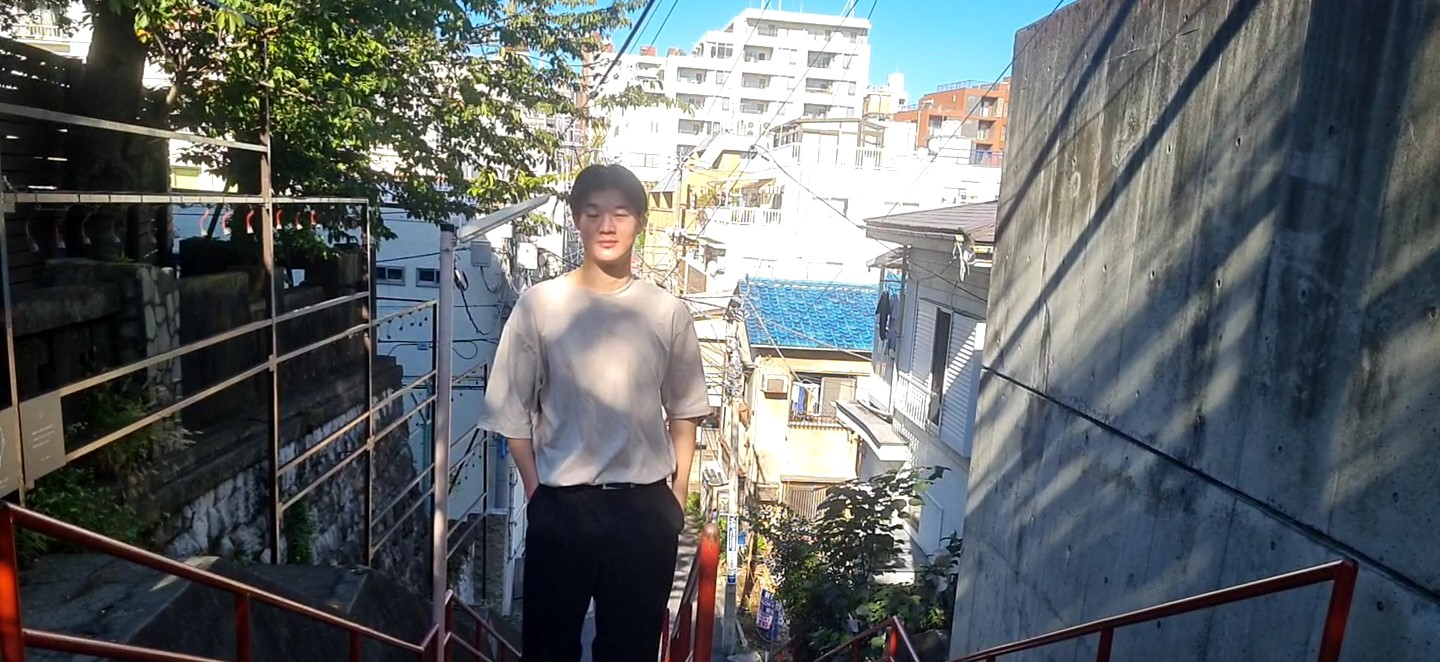
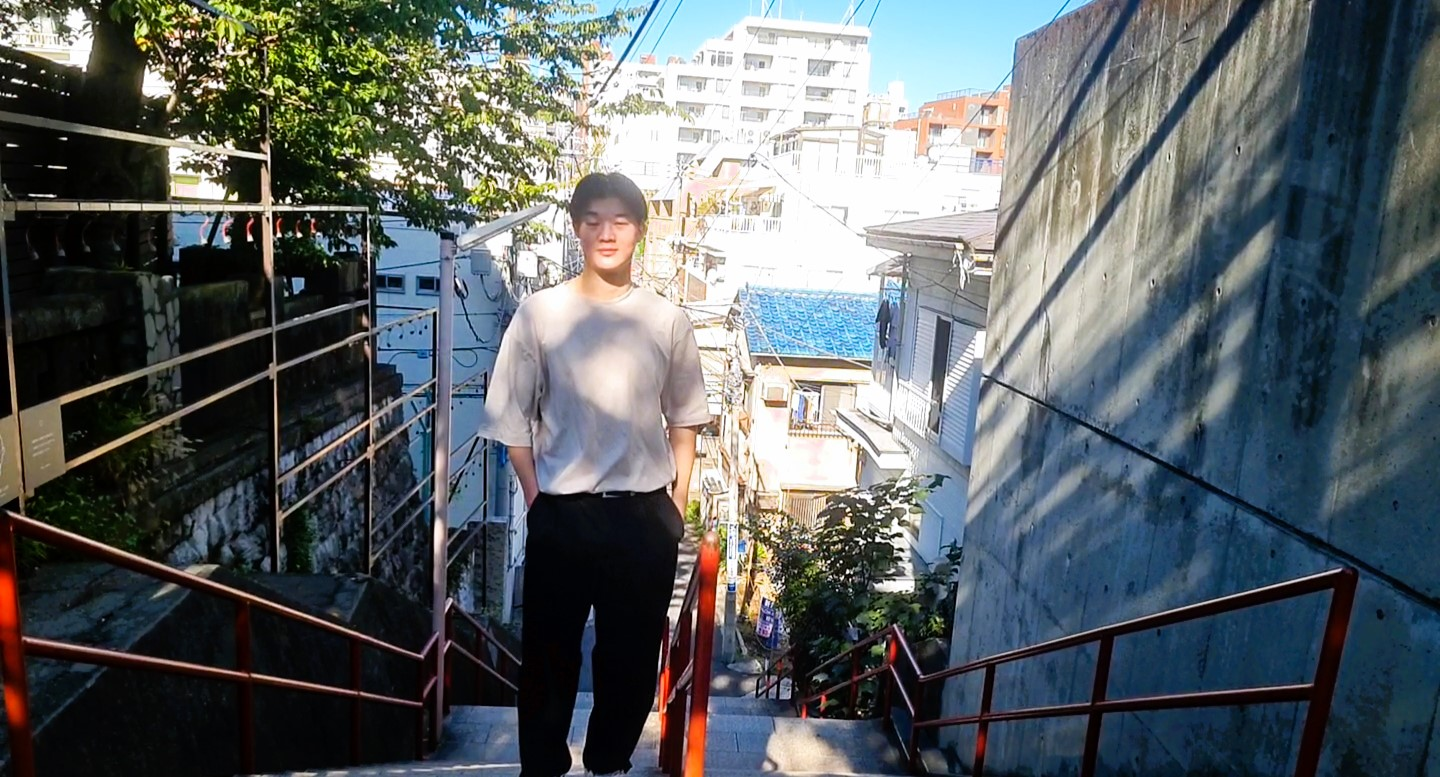
cv

diff --git a/_pages/resume.md b/_pages/resume.md
@@ -7,14 +7,15 @@ nav: true
 nav_order: 5
 ---
 
+<img src="https://nphamdinh.github.io/assets/img/suga_shrine_stairs.jpg" alt="" style="width:1000px;height:400px;">
 
 <section>
 
 	<p class="mt-4">
 		Read a summary below or
 		<ul>
-		<li><b><span style="font-size: 12pt"><a href="https://www.esann.org/sites/default/files/proceedings/2023/ES2023-168.pdf" target="_blank">Download my CV</a></span></b></li>
-		<li><b><span style="font-size: 12pt"><a href="https://www.esann.org/sites/default/files/proceedings/2023/ES2023-168.pdf" target="_blank">Download my Resume</a></span></b></li>
+		<li><b><span style="font-size: 12pt"><a href="https://nphamdinh.github.io/assets/pdf/CV_Pham_Dinh_Nam_2024" target="_blank">Download my CV</a></span></b></li>
+		<li><b><span style="font-size: 12pt"><a href="https://nphamdinh.github.io/assets/pdf/CV_Pham_Dinh_Nam_2024" target="_blank">Download my Resume</a></span></b></li>
 		</ul>
 	</p>
 
@@ -78,10 +79,10 @@ Analytics, Software Engineering, Introduction to Programming, Stochastic</small>
 <section class="mt-5 mb-2">
 	<div class="row">
 		<div class="col-sm">
-			<a href="https://www.esann.org/sites/default/files/proceedings/2023/ES2023-168.pdf" target="_blank" class="btn btn-outline-primary btn-lg mr-5" role="button">Download CV</a>
+			<a href="https://nphamdinh.github.io/assets/pdf/CV_Pham_Dinh_Nam_2024" target="_blank" class="btn btn-outline-primary btn-lg mr-5" role="button">Download CV</a>
 <!-- 		</div>
 		<div class="col-sm"> -->
-			<a href="https://www.esann.org/sites/default/files/proceedings/2023/ES2023-168.pdf" target="_blank" class="btn btn-outline-primary btn-lg" role="button">Download Resume</a>
+			<a href="https://nphamdinh.github.io/assets/pdf/CV_Pham_Dinh_Nam_2024" target="_blank" class="btn btn-outline-primary btn-lg" role="button">Download Resume</a>
 		</div>
 	</div>
 </section>
